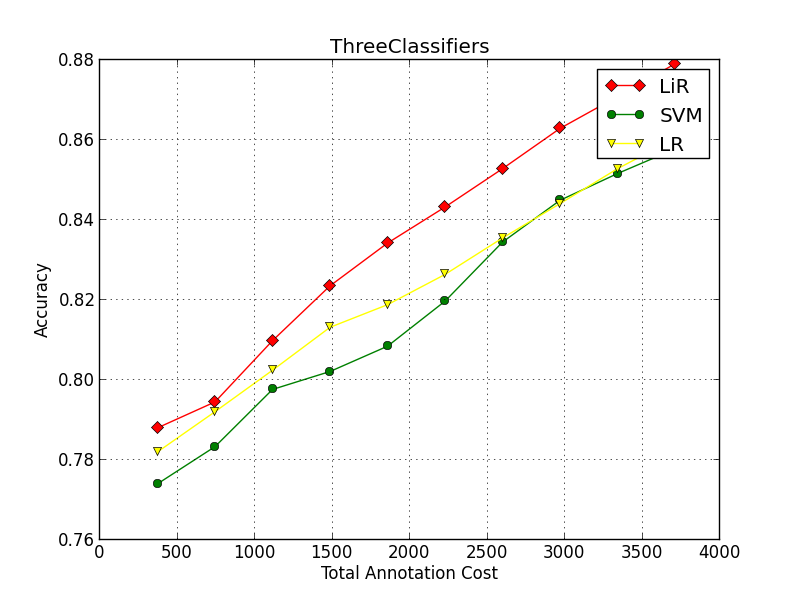
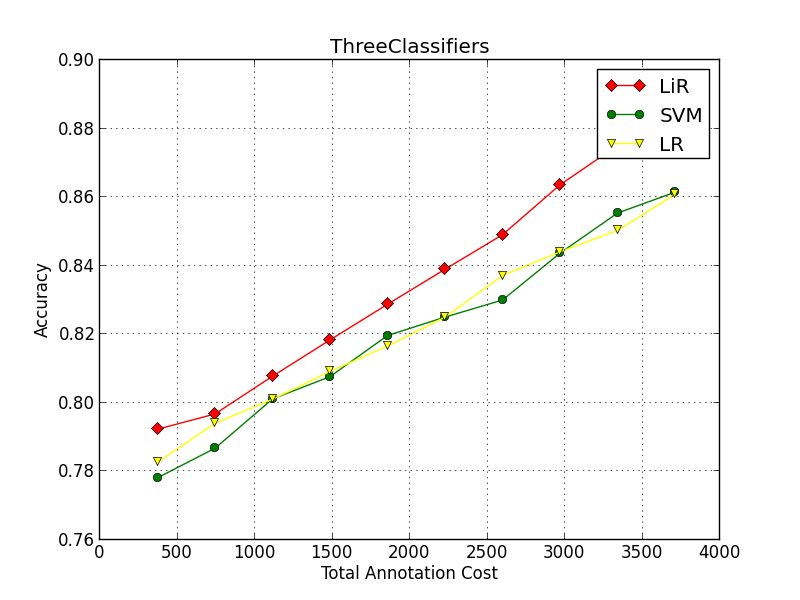
Fix bugs...

diff --git a/src/edu/cmu/al/experiment/TableExperiment.java b/src/edu/cmu/al/experiment/TableExperiment.java
@@ -25,14 +25,14 @@ public class TableExperiment implements Experiment {
     this.result_id = 0;
   }
 
-  private void doExperiment(int i, int round, double ratio, BasicSampling sampling, Classifier classifier,
-          LabelingSimulation labeling) {
+  private void doExperiment(int i, int round, int numberOfInstanceToLabel, BasicSampling sampling,
+          Classifier classifier, LabelingSimulation labeling) {
     if (i < 0 || i >= round) {
       System.out.println("Experiment error...");
       return;
     }
 
-    int numberOfInstanceToLabel = (int) Math.floor((labeling.getAllNumber() / round) * ratio);
+    // int numberOfInstanceToLabel = (int) Math.floor((labeling.getAllNumber() / round) * ratio);
 
     // print
     System.out.println("Round: " + i + '\t' + "ToLabel: " + numberOfInstanceToLabel + "\t"
@@ -85,11 +85,11 @@ public class TableExperiment implements Experiment {
   }
 
   @Override
-  public void doExperiment(int round, double ratio, BasicSampling sampling, Classifier classifier,
-          LabelingSimulation labeling, String outputFileName) {
+  public void doExperiment(int round, int numberOfInstanceToLabel, BasicSampling sampling,
+          Classifier classifier, LabelingSimulation labeling, String outputFileName) {
 
     for (int i = 0; i < round; i++) {
-      doExperiment(i, round, ratio, sampling, classifier, labeling);
+      doExperiment(i, round, numberOfInstanceToLabel, sampling, classifier, labeling);
     }
     clearPredictTable();
     WriteInFile(result_id, outputFileName);

diff --git a/src/edu/cmu/al/main/Main.java b/src/edu/cmu/al/main/Main.java
@@ -37,13 +37,14 @@ public class Main {
     Classifier classifier1 = new Regression();
     Classifier classifier2 = new SVMClassifier();
     Classifier classifier3 = new LogisticClassifier();
-
     LabelingSimulation labeling = new BasicLabelingSimulation();
 
+    int numberOfInstanceToLabel = (int) Math.floor((labeling.getAllNumber() / round) * ratio);
+    
     Experiment experiment = new TableExperiment();
-    experiment.doExperiment(round, ratio, sampling, classifier1, labeling, "regression.txt");
-    experiment.doExperiment(round, ratio, sampling, classifier2, labeling, "svm.txt");
-    experiment.doExperiment(round, ratio, sampling, classifier3, labeling, "logistic.txt");
+    experiment.doExperiment(round, numberOfInstanceToLabel, sampling, classifier1, labeling, "regression.txt");
+    experiment.doExperiment(round, numberOfInstanceToLabel, sampling, classifier2, labeling, "svm.txt");
+    experiment.doExperiment(round, numberOfInstanceToLabel, sampling, classifier3, labeling, "logistic.txt");
 
     experiment.plotResult("ThreeClassifiersUpdate", "ThreeClassifiers", "regression.txt", "LiR",
             "svm.txt", "SVM", "logistic.txt", "LR");

diff --git a/src/edu/cmu/al/simulation/BasicLabelingSimulation.java b/src/edu/cmu/al/simulation/BasicLabelingSimulation.java
@@ -1,11 +1,7 @@
 package edu.cmu.al.simulation;
 
 import java.sql.ResultSet;
-import java.sql.SQLException;
-import java.util.ArrayList;
 import java.util.Collection;
-import java.util.Collections;
-import java.util.List;
 
 import edu.cmu.al.util.Configuration;
 import edu.cmu.al.util.SqlManipulation;
@@ -102,7 +98,7 @@ public class BasicLabelingSimulation implements LabelingSimulation {
     return SqlManipulation.queryInt(sql);
   }
 
-  // get all instances in the database
+/*  // get all instances in the database
   private List<String> getProductList() {
     String sql = "select product_id from " + Configuration.getPredictTable() + " where islabeled=0";
     ResultSet rs = SqlManipulation.query(sql);
@@ -118,7 +114,7 @@ public class BasicLabelingSimulation implements LabelingSimulation {
     }
 
     return productIds;
-  }
+  }*/
 
   @Override
   public int getAllNumber() {

diff --git a/src/edu/cmu/al/experiment/Experiment.java b/src/edu/cmu/al/experiment/Experiment.java
@@ -6,8 +6,8 @@ import edu.cmu.al.simulation.LabelingSimulation;
 
 public interface Experiment {
 
-  public void doExperiment(int round, double ratio, BasicSampling sampling, Classifier classifier,
-          LabelingSimulation labeling, String outputFileName);
+  public void doExperiment(int round, int numberOfInstanceToLabel, BasicSampling sampling,
+          Classifier classifier, LabelingSimulation labeling, String outputFileName);
 
   public void plotResult(String outputFileName, String title, String... files);
 }
